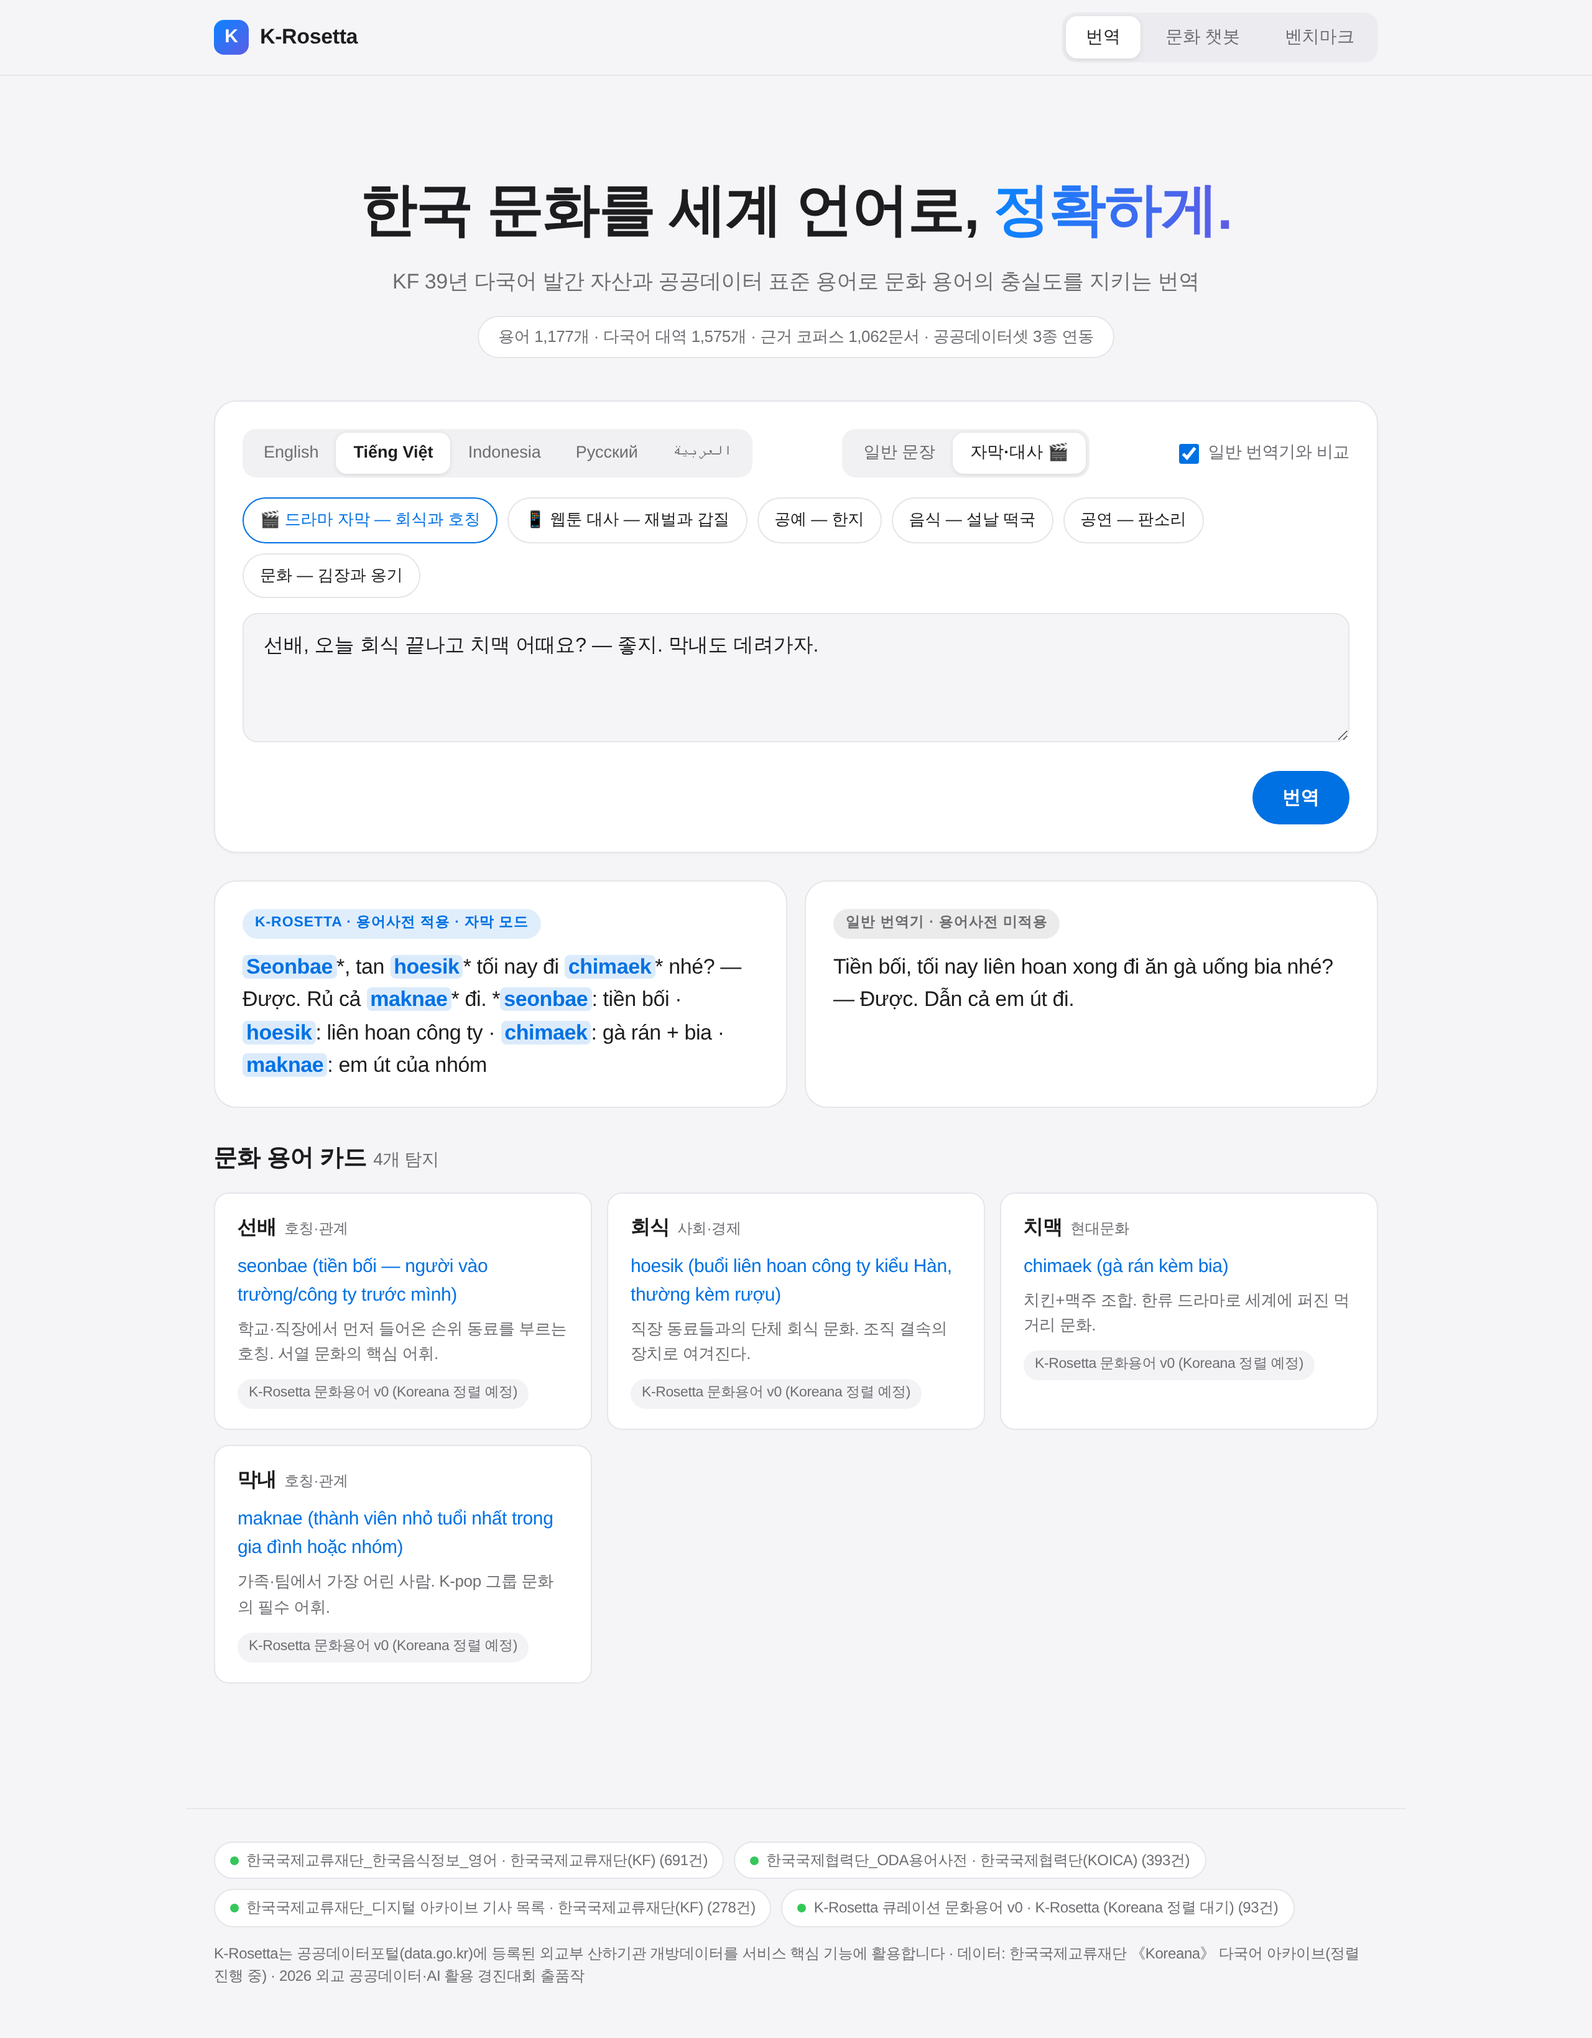
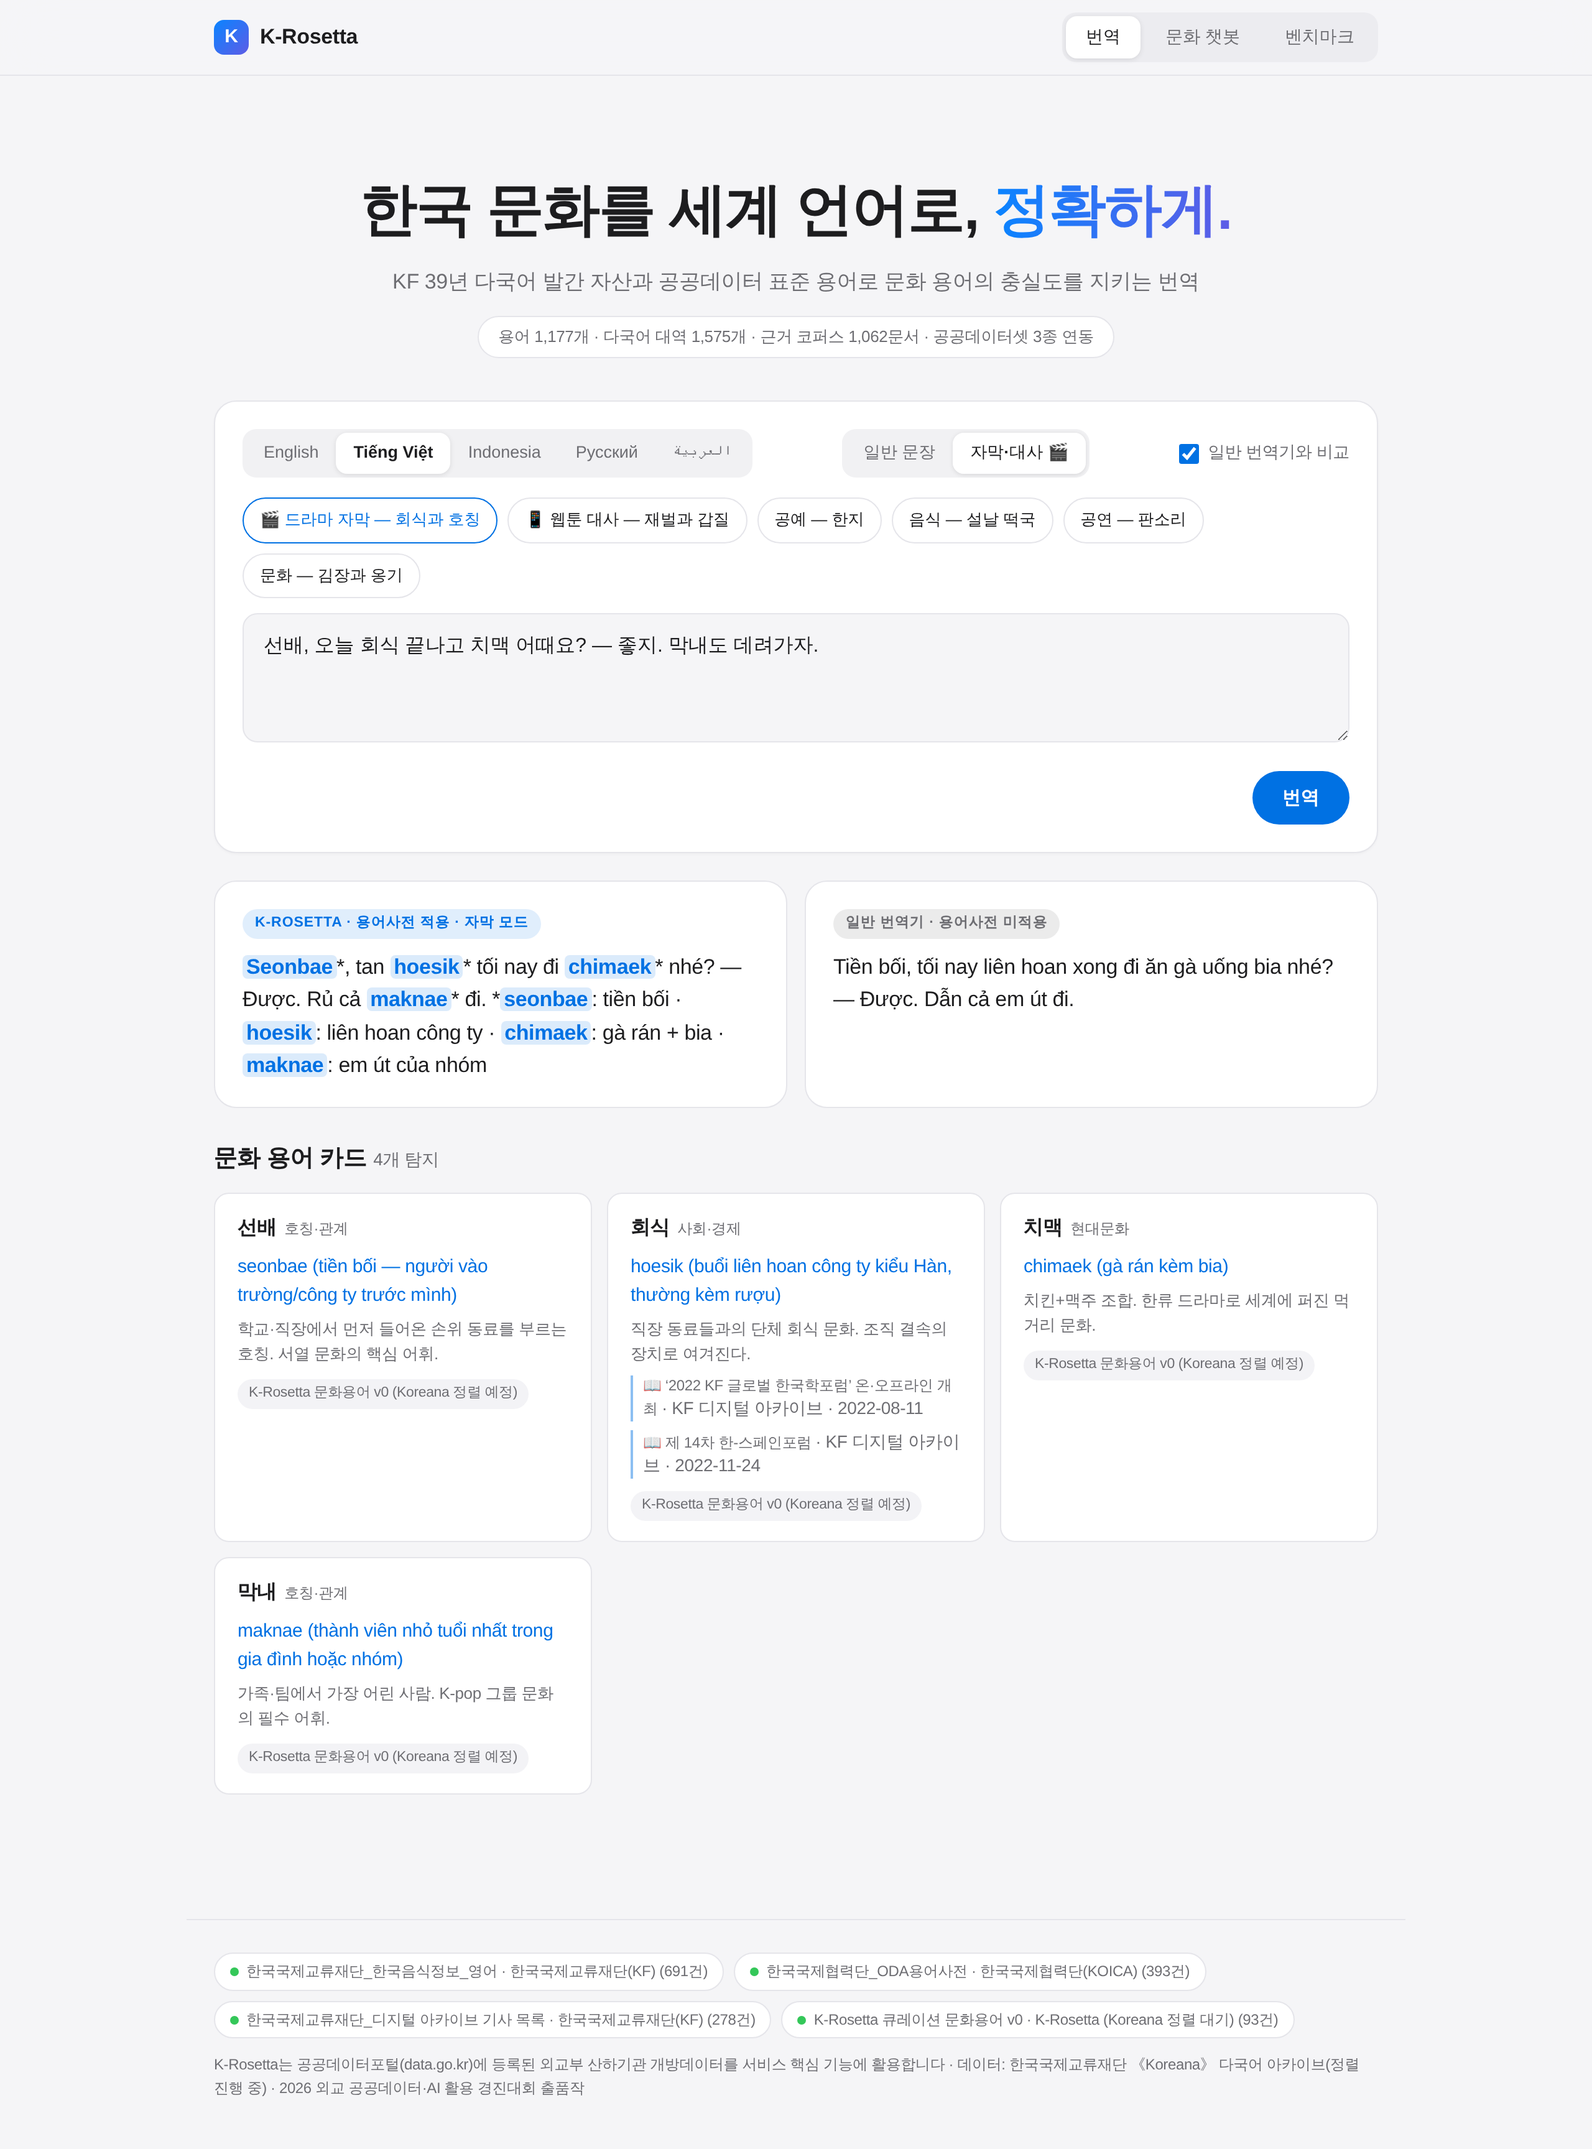
[v1.1] 용어→근거 기사 자동 연결 + Koreana 결합 경로 완결 — pytest 17건 통과
- glossary_evidence: 문화용어 ↔ 코퍼스 기사 자동 매칭(ko 원문 + 외국어판 음차 헤드)
  → 실 KF 아카이브 근거 52건, 용어 카드에 📖 근거 표시
- Koreana 파일럿 자동 결합 e2e 테스트(합성 fixture) — 재빌드 한 번에 편입+근거 확장 보증
- 원격 수집 4개 경로(프록시/WebFetch/Wayback/CommonCrawl) 시도·차단 확인 기록
  → 크롤은 한국 IP 전용 확정
- README.md: 5분 데모 실행 가이드

Claude-Session: https://claude.ai/code/session_01Mmpx2B2nzzoWod2GL2ZVbb

diff --git a/frontend/styles.css b/frontend/styles.css
@@ -146,6 +146,11 @@ textarea:focus, input[type="text"]:focus { border-color: var(--accent); }
 .term-card .t-cat { color: var(--text-2); font-size: 12px; margin-left: 6px; }
 .term-card .t-rend { color: var(--accent); font-size: 15px; margin: 6px 0; font-weight: 500; }
 .term-card .t-def { color: var(--text-2); font-size: 13px; }
+.term-card .t-evi {
+  font-size: 12px; color: var(--text-2); margin-top: 7px;
+  border-left: 2px solid color-mix(in srgb, var(--accent) 45%, transparent);
+  padding-left: 8px; line-height: 1.4;
+}
 .term-card .t-src {
   margin-top: 10px; font-size: 11.5px; color: var(--text-2);
   display: inline-block; background: color-mix(in srgb, var(--line) 45%, transparent);

diff --git a/frontend/app.js b/frontend/app.js
@@ -106,6 +106,10 @@ function renderTranslation(d) {
         <div class="t-rend">${esc(t.rendering || "—")}</div>
         <div class="t-def">${esc((t.definition_ko || "").slice(0, 90))}</div>
         ${t.fallback_to_en ? '<div class="t-fallback">※ 선택 언어 대역 준비 중 — 영문 표준 표시</div>' : ""}
+        ${(t.evidence || [])
+          .slice(0, 2)
+          .map((e) => `<div class="t-evi" title="${esc(e.snippet || "")}">📖 ${esc(e.title)} <span class="muted">· ${esc(e.source_label)}${e.published ? " · " + esc(e.published) : ""}</span></div>`)
+          .join("")}
         <span class="t-src">${esc(t.source_label)}</span>
       </div>`
     )

diff --git a/pipeline/build_db.py b/pipeline/build_db.py
@@ -27,6 +27,7 @@ SCHEMA = """
 DROP TABLE IF EXISTS glossary_terms;
 DROP TABLE IF EXISTS glossary_renderings;
 DROP TABLE IF EXISTS corpus_docs;
+DROP TABLE IF EXISTS glossary_evidence;
 DROP TABLE IF EXISTS opendata_provenance;
 DROP TABLE IF EXISTS corpus_fts;
 
@@ -62,6 +63,14 @@ CREATE VIRTUAL TABLE corpus_fts USING fts5(
   title, body, content='corpus_docs', content_rowid='id',
   tokenize='unicode61 remove_diacritics 2'
 );
+CREATE TABLE glossary_evidence (
+  id INTEGER PRIMARY KEY,
+  term_id INTEGER NOT NULL REFERENCES glossary_terms(id),
+  doc_id INTEGER NOT NULL REFERENCES corpus_docs(id),
+  lang TEXT NOT NULL,
+  snippet TEXT
+);
+CREATE INDEX idx_ev_term ON glossary_evidence(term_id);
 CREATE TABLE opendata_provenance (
   dataset_name TEXT PRIMARY KEY,
   provider TEXT, portal_url TEXT, license TEXT,
@@ -256,9 +265,64 @@ def load_koreana_pilot(con: sqlite3.Connection) -> int:
     return n
 
 
+def _snippet(body: str, needle: str, width: int = 70) -> str:
+    i = body.find(needle)
+    if i < 0:
+        return body[:width * 2]
+    s, e = max(0, i - width), min(len(body), i + len(needle) + width)
+    return ("…" if s > 0 else "") + body[s:e] + ("…" if e < len(body) else "")
+
+
+def link_evidence(con: sqlite3.Connection) -> int:
+    """문화 용어 ↔ 근거 기사 자동 연결.
+
+    - 한국어 문서(kf_archive, koreana_pilot ko판): 용어 원문 매칭
+    - 외국어 문서(koreana_pilot 타 언어판): 대역의 음차 헤드(예: 'pansori') 매칭
+    Koreana 파일럿 코퍼스가 도착하면 재빌드만으로 다국어 근거가 자동 확장된다.
+    """
+    n = 0
+    terms = con.execute(
+        "SELECT id, term_ko FROM glossary_terms WHERE domain='culture'"
+    ).fetchall()
+    for t in terms:
+        # 한국어 근거 (제목 우선, 최대 3건)
+        rows = con.execute(
+            """SELECT id, title, body FROM corpus_docs
+               WHERE source IN ('kf_archive','koreana_pilot') AND lang='ko'
+                 AND (title LIKE '%'||?||'%' OR body LIKE '%'||?||'%')
+               ORDER BY (title LIKE '%'||?||'%') DESC LIMIT 3""",
+            (t["term_ko"], t["term_ko"], t["term_ko"]),
+        ).fetchall()
+        for r in rows:
+            con.execute(
+                "INSERT INTO glossary_evidence(term_id, doc_id, lang, snippet) VALUES(?,?,?,?)",
+                (t["id"], r["id"], "ko", _snippet(r["body"] or r["title"], t["term_ko"])),
+            )
+            n += 1
+        # 외국어 근거 (Koreana 파일럿 언어판 — 음차 헤드 매칭)
+        for rend in con.execute(
+            "SELECT lang, rendering FROM glossary_renderings WHERE term_id=?", (t["id"],)
+        ).fetchall():
+            head = rend["rendering"].split("(")[0].strip()
+            if len(head) < 3:
+                continue
+            for r in con.execute(
+                """SELECT id, title, body FROM corpus_docs
+                   WHERE source='koreana_pilot' AND lang=? AND body LIKE '%'||?||'%' LIMIT 2""",
+                (rend["lang"], head),
+            ).fetchall():
+                con.execute(
+                    "INSERT INTO glossary_evidence(term_id, doc_id, lang, snippet) VALUES(?,?,?,?)",
+                    (t["id"], r["id"], rend["lang"], _snippet(r["body"], head)),
+                )
+                n += 1
+    return n
+
+
 def main() -> None:
     DB_PATH.parent.mkdir(parents=True, exist_ok=True)
     con = sqlite3.connect(DB_PATH)
+    con.row_factory = sqlite3.Row
     con.executescript(SCHEMA)
     counts = {
         "kf_food(음식 용어)": load_food(con),
@@ -268,6 +332,7 @@ def main() -> None:
         "koreana_pilot(파일럿 기사)": load_koreana_pilot(con),
     }
     con.execute("INSERT INTO corpus_fts(rowid, title, body) SELECT id, title, body FROM corpus_docs")
+    counts["glossary_evidence(용어→근거 연결)"] = link_evidence(con)
     now = time.strftime("%Y-%m-%dT%H:%M:%S")
     for key, p in PROVENANCE.items():
         rc = con.execute(

diff --git a/pipeline/tests/test_pilot_integration.py b/pipeline/tests/test_pilot_integration.py
@@ -1,0 +1,49 @@
+"""Koreana 파일럿 산출물 자동 결합 경로의 end-to-end 검증.
+
+실 크롤 데이터는 한국 IP에서만 수집 가능하므로(사이트가 해외 트래픽 차단), 여기서는
+**합성 fixture**(테스트 전용, 실데이터 아님)로 '산출물이 도착하면 재빌드 한 번에
+코퍼스 편입 + 다국어 근거 연결까지 자동'임을 보증한다.
+"""
+import json
+import sqlite3
+import sys
+from pathlib import Path
+
+sys.path.insert(0, str(Path(__file__).resolve().parents[2]))
+
+import pipeline.build_db as bdb  # noqa: E402
+
+KO_BODY = ("전주에서 열린 소리 축제에서 젊은 소리꾼이 판소리 춘향가를 완창했다. " * 8)
+EN_BODY = ("At the festival in Jeonju, a young singer performed a full pansori rendition "
+           "of Chunhyangga, accompanied by a drummer. " * 5)
+
+
+def test_pilot_ingestion_and_multilingual_evidence(tmp_path, monkeypatch):
+    articles = tmp_path / "articles"
+    articles.mkdir()
+    (articles / "ko.jsonl").write_text(json.dumps({
+        "lang": "ko", "nttSn": "1", "title": "[테스트픽스처] 판소리 완창 무대",
+        "body_text": KO_BODY, "body_chars": len(KO_BODY), "url": "http://example.test/ko/1",
+    }, ensure_ascii=False) + "\n", encoding="utf-8")
+    (articles / "en.jsonl").write_text(json.dumps({
+        "lang": "en", "nttSn": "2", "title": "[test-fixture] A Full Pansori Performance",
+        "body_text": EN_BODY, "body_chars": len(EN_BODY), "url": "http://example.test/en/2",
+    }, ensure_ascii=False) + "\n", encoding="utf-8")
+
+    monkeypatch.setattr(bdb, "KOREANA", articles)
+    con = sqlite3.connect(":memory:")
+    con.row_factory = sqlite3.Row
+    con.executescript(bdb.SCHEMA)
+    assert bdb.load_curated(con) > 0
+    assert bdb.load_koreana_pilot(con) == 2  # ko+en 기사 편입
+
+    n_ev = bdb.link_evidence(con)
+    assert n_ev >= 2
+    rows = con.execute(
+        """SELECT e.lang, d.source FROM glossary_evidence e
+           JOIN glossary_terms t ON t.id=e.term_id
+           JOIN corpus_docs d ON d.id=e.doc_id WHERE t.term_ko='판소리'"""
+    ).fetchall()
+    langs = {(r["lang"], r["source"]) for r in rows}
+    assert ("ko", "koreana_pilot") in langs   # 한국어판 근거 연결
+    assert ("en", "koreana_pilot") in langs   # 영어판 'pansori' 음차 매칭 근거 연결

diff --git a/backend/app/routers/api.py b/backend/app/routers/api.py
@@ -35,9 +35,27 @@ def _subtitle_form(rendering: str | None) -> str | None:
     return rendering.split("(")[0].strip()
 
 
+def _term_evidence(term_id: int) -> list[dict]:
+    con = get_db()
+    rows = con.execute(
+        """SELECT e.lang, e.snippet, d.title, d.source, d.published, d.url
+           FROM glossary_evidence e JOIN corpus_docs d ON d.id = e.doc_id
+           WHERE e.term_id=? LIMIT 4""",
+        (term_id,),
+    ).fetchall()
+    label = {"kf_archive": "KF 디지털 아카이브", "koreana_pilot": "Koreana"}
+    return [
+        {"lang": r["lang"], "title": r["title"], "snippet": r["snippet"],
+         "source_label": label.get(r["source"], r["source"]),
+         "published": r["published"], "url": r["url"]}
+        for r in rows
+    ]
+
+
 def _term_card(t: dict) -> dict:
     r = t.get("rendering") or {}
     return {
+        "evidence": _term_evidence(t["id"]) if t.get("id") else [],
         "term_ko": t["term_ko"],
         "subtitle_form": _subtitle_form(r.get("rendering")),
         "category": t["category"],

diff --git a/README.md b/README.md
@@ -1,0 +1,69 @@
+# K-Rosetta
+
+**한국 문화를 세계 언어로, 정확하게.** — 공공데이터 기반 문화용어 AI 로컬라이제이션
+(2026 외교 공공데이터·AI 활용 경진대회 제품·서비스 개발 부문 출품작)
+
+![demo](docs/demo_assets/01_translate_compare.png)
+
+## 🚀 데모 실행 (5분, 무료)
+
+요구사항: Python 3.10+ (Windows/Mac/Linux 무관)
+
+```bash
+git clone https://github.com/SEUNGMINSHIN7277/shiver.git
+cd shiver
+
+# 1) 의존성
+pip install -r backend/requirements.txt -r pipeline/requirements.txt
+
+# 2) 데이터베이스 빌드 (공공데이터 CSV → SQLite, ~5초)
+python pipeline/build_db.py
+python pipeline/build_benchmark.py
+
+# 3) 서버 실행
+python -m uvicorn backend.app.main:app --port 8777
+```
+
+브라우저에서 **http://localhost:8777** 접속.
+
+- **번역 탭**: 예시 칩(🎬 드라마 자막, 음식—설날 떡국 등) 클릭 → "일반 번역기와 비교" 체크 상태로
+  좌우 비교. 아무 한국어 문장이나 입력해도 문화용어 탐지+표준 대역 카드는 동작
+- **문화 챗봇 탭**: 예시 질문 클릭 또는 자유 질문("프린스턴대 한국학 소식 알려줘",
+  "Что такое 온돌?" 등) — 출처 인용 확인
+- **벤치마크 탭**: 언어 필터(EN/VI/ID/RU)로 저자원 언어 결과 확인
+
+`make demo` 한 줄로도 실행됩니다(macOS/Linux). 테스트: `make test` (pytest 17건).
+
+## 🔑 선택 설정 (.env)
+
+`.env.example`을 복사해 `.env` 생성. **키가 없어도 전 기능 데모가 동작**합니다(cached 모드).
+`DATA_GO_KR_API_KEY`는 오픈API 라이브 연동 시연용(무료 발급).
+
+## 📦 Koreana 파일럿 코퍼스 결합 (한국 IP 필요)
+
+koreana.or.kr은 해외 트래픽을 차단하므로 크롤링은 한국 내 PC에서만 가능합니다:
+
+```bash
+python scripts/run_pilot_crawl.py          # 30~60분, 방치 가능
+python pipeline/build_db.py                # 재빌드 → 코퍼스 편입 + 다국어 근거 자동 연결
+git add data/pilot && git commit -m "pilot corpus" && git push
+```
+
+결합 경로는 합성 fixture 기반 통합 테스트로 사전 검증되어 있습니다
+(`pipeline/tests/test_pilot_integration.py`).
+
+## 📚 문서
+
+| 문서 | 내용 |
+|---|---|
+| `docs/DEV_SPEC.md` | 개발명세서 (아키텍처·파이프라인·API·마일스톤) |
+| `docs/GRAND_PRIZE_PLAN.md` | 기획서 반영도 감사 + 고도화 계획 |
+| `docs/SUBMISSION_기획서_초안.md` | 공모 접수용 기획서 초안 (붙임3 양식 대응) |
+| `docs/PROGRESS.md` | 세션별 진행 현황 |
+| `CLAUDE.md` | Claude Code 자율 개발 운영 지침 |
+
+## 활용 공공데이터 (공공데이터포털 등록)
+
+한국국제교류재단_한국음식정보_영어(15044203) · 한국국제협력단_ODA용어사전(15052909) ·
+한국국제교류재단_디지털 아카이브 기사 목록(15139278) · KF 해외대학 표준국문명칭(15075335) ·
+외교부 국가·지역별 표준코드(15075346) · KOICA-KF 융합 사업정보(15099215)

diff --git a/docs/PROGRESS.md b/docs/PROGRESS.md
@@ -30,6 +30,18 @@
 
 ## 세션 로그 (최신이 위)
 
+### 2026-07-12 — 세션 4 (근거 연결 + Koreana 결합 경로 완결) ✅
+- **Koreana 원격 수집 4개 경로 전부 시도·차단 확인** (프록시 curl / WebFetch 직접 /
+  Wayback / Common Crawl — 원 서버가 해외 트래픽 403 차단). 크롤은 한국 IP(사용자 PC)
+  전용으로 확정 — `scripts/run_pilot_crawl.py` 원커맨드 대기 상태
+- **용어→근거 기사 자동 연결(evidence linking)**: 문화용어 ↔ 코퍼스 기사 매칭
+  (한국어 원문 + 외국어판 음차 헤드) → **실 KF 아카이브 기사로 근거 52건 연결**,
+  용어 카드에 📖 근거 표시 (예: 판소리 → "미국 알래스카에서 한국 문화의 밤 공연 개최")
+- Koreana 파일럿 결합 경로 e2e 통합 테스트 (합성 fixture) — 산출물 도착 시
+  `python pipeline/build_db.py` 한 번으로 코퍼스 편입+다국어 근거 자동 확장 보증
+- README.md 신설: 데모 실행 가이드(5분), 파일럿 결합 절차
+- 검증: **pytest 17건 통과**, 스크린샷 갱신
+
 ### 2026-07-12 — 세션 3 (대상 고도화 v1: GRAND_PRIZE_PLAN 실행) ✅
 - 기획서 반영도 감사 → `docs/GRAND_PRIZE_PLAN.md` (갭 7건 식별, P1~P6 우선순위)
 - P1 용어 확장: **문화용어 45→93종**, K-콘텐츠 호칭·사회문화 도메인 신설(오빠·선배·막내·재벌·
